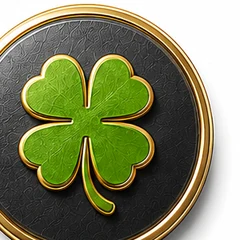
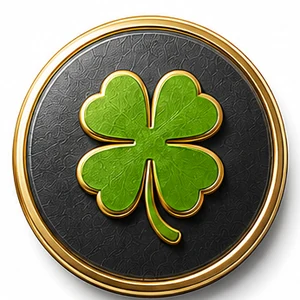
fix: mantener la vista de órbita (con cables y aros) también en móvil
Antes, por debajo de 720px de ancho o 640px de alto, el hub colapsaba
a un grid estático de 2 columnas sin cables ni aros — justo el diseño
que el propietario NO había elegido (eligió la vista circular tipo
átomo). Se elimina ese fallback: ahora la órbita se reajusta de
tamaño para móvil (centro, monedas, texto y aros más pequeños) en vez
de cambiar de layout. Los aros/partículas solo se ocultan por debajo
de 380px, donde ya no caben con margen razonable.

De paso, recorta de nuevo las 7 monedas con centros y diámetro
medidos por escaneo de píxeles (antes por estimación visual) para que
queden mejor encuadradas dentro del círculo de cada badge.

diff --git a/inicio.html b/inicio.html
@@ -91,7 +91,7 @@ body{
 @keyframes spinCW{from{transform:rotate(0deg);}to{transform:rotate(360deg);}}
 @keyframes spinCCW{from{transform:rotate(0deg);}to{transform:rotate(-360deg);}}
 .data-dots circle{opacity:.9;}
-@media (max-width:720px), (max-height:640px){
+@media (max-width:380px){
   .orbit-rings,.data-dots{display:none;}
 }
 
@@ -141,7 +141,7 @@ body{
 .sat-badge{
   position:relative;overflow:hidden;
   width:clamp(52px,12vmin,72px);height:clamp(52px,12vmin,72px);border-radius:50%;
-  background:var(--coin) center/cover;
+  background:var(--coin) center/112% 112%;
   box-shadow:0 0 24px var(--c-glow), 0 10px 22px rgba(0,0,0,.4);
   transition:transform .3s cubic-bezier(.34,1.56,.64,1), box-shadow .3s;
   animation:float 5s ease-in-out infinite;
@@ -170,17 +170,21 @@ body{
 }
 .satellite:hover .sat-label{color:#1A1006;}
 
-/* ─── Mobile: orbit collapses to a grid ─── */
-@media (max-width:720px), (max-height:640px){
-  body{padding:5vh 18px 6vh;}
-  .hub-plate{width:100%;max-width:460px;border-radius:7%;}
-  .orbit-shell{width:100%;max-width:460px;aspect-ratio:auto;height:auto;max-height:none;}
-  .connector-svg{display:none;}
-  .hub-center{position:static;transform:none;margin:0 auto 22px;animation:popIn .6s cubic-bezier(.34,1.56,.64,1) .05s forwards;}
-  .hub-center:nth-child(1){}
-  .orbit{display:grid;grid-template-columns:repeat(2,1fr);gap:22px 14px;}
-  .satellite{position:static;transform:none;width:100%;}
-  .satellite:hover .sat-badge, .satellite:focus-visible .sat-badge{transform:scale(1.06);}
+/* ─── Mobile: se mantiene la órbita con cables y aros, solo se reajusta el
+   tamaño (antes colapsaba a un grid de 2 columnas sin cables) ─── */
+@media (max-width:720px){
+  body{padding:4vh 12px 5vh;}
+  .hub-plate{width:100%;max-width:460px;border-radius:7%;padding:16px;}
+  .orbit-shell{width:100%;max-width:460px;}
+  .hub-center{width:clamp(78px,26vw,110px);height:clamp(78px,26vw,110px);}
+  .sat-badge{width:clamp(40px,11vw,58px);height:clamp(40px,11vw,58px);}
+  .satellite{width:clamp(58px,17vw,80px);}
+  .sat-label{font-size:clamp(9.5px,2.6vw,11.5px);margin-top:6px;}
+  .sat-tag{font-size:7.5px;margin-top:1px;}
+}
+@media (max-width:380px){
+  .sat-label{font-size:8.5px;}
+  .sat-tag{display:none;}
 }
 
 .footer-tag{
